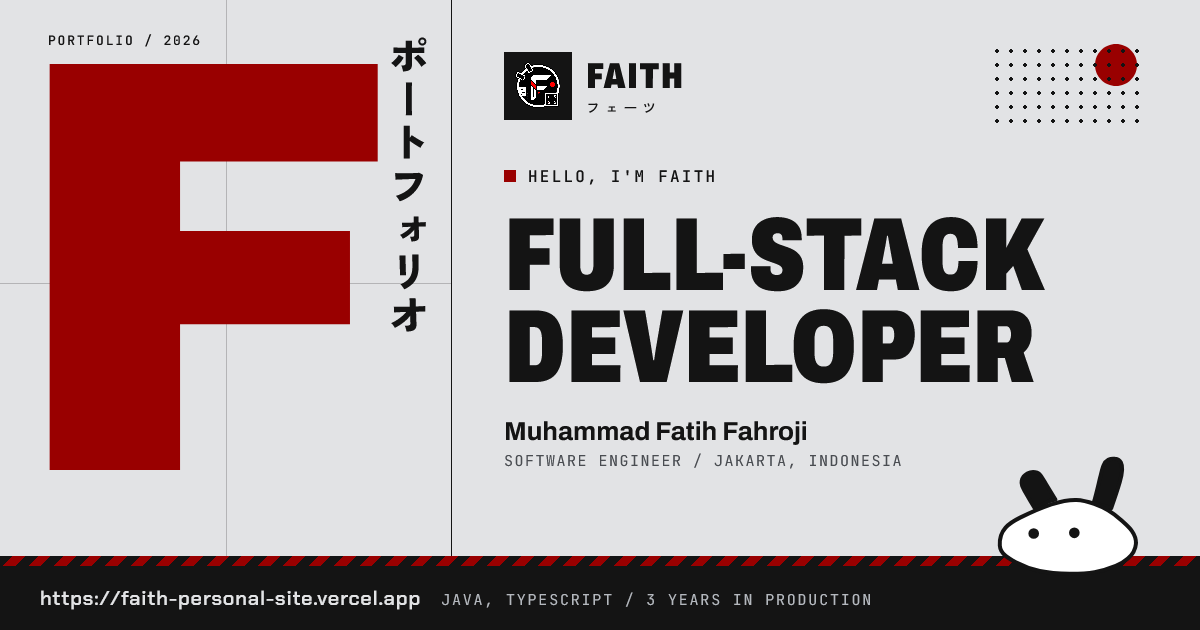
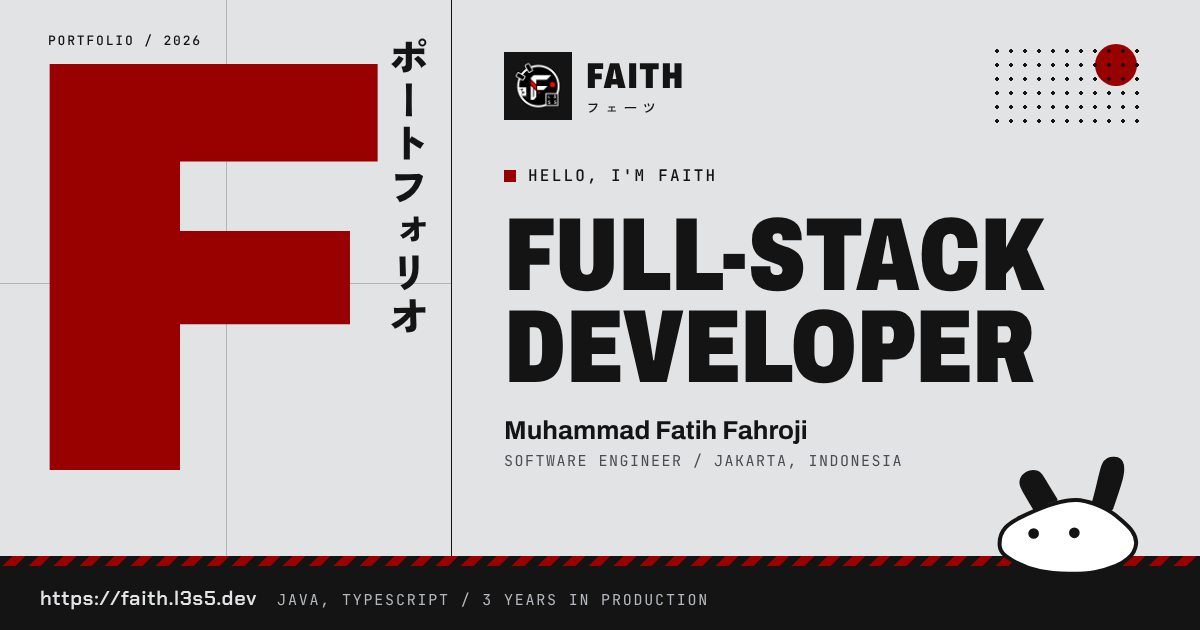
feat(seo): move to faith.l3s5.dev and help search engines find me
Point metadataBase, og:url, and the share images at faith.l3s5.dev, and
mark the home page canonical. Put my full name in the title and the meta
description, add robots.txt and sitemap.xml, and describe me with a
schema.org Person record linked to LinkedIn, GitHub, and YouTube. The
public email is now hello@fatihfahroji.com.

The headline gag draws its letters with CSS from data attributes, so the
typo still paints first but no reader of the page text sees STUCK.

diff --git a/test/features/home/HeroHeadline/HeroHeadline.test.tsx b/test/features/home/HeroHeadline/HeroHeadline.test.tsx
@@ -5,7 +5,8 @@ import { HeroHeadline } from "@/features/home/HeroHeadline/HeroHeadline";
 import { headlineGagAttribute } from "@/lib/motion/headlineGag";
 
 function gagText(container: HTMLElement) {
-  return container.querySelector("[aria-hidden='true']")?.textContent;
+  const layer = container.querySelector("[aria-hidden='true']");
+  return [...(layer?.querySelectorAll("[data-text]") ?? [])].map((glyphs) => glyphs.getAttribute("data-text")).join("");
 }
 
 describe("HeroHeadline", () => {
@@ -21,6 +22,13 @@ describe("HeroHeadline", () => {
   it("keeps the real headline as the accessible heading", () => {
     render(<HeroHeadline className="title" />);
     expect(screen.getByRole("heading", { level: 1, name: "FULL-STACK DEVELOPER" })).toBeTruthy();
+  });
+
+  it("keeps the gag letters out of the page text so crawlers never read STUCK", () => {
+    document.documentElement.setAttribute(headlineGagAttribute, "");
+    const { container } = render(<HeroHeadline className="title" />);
+    expect(container.querySelector("[aria-hidden='true']")?.textContent).toBe("");
+    expect(container.textContent).not.toContain("STUCK");
   });
 
   it("corrects FULL-STUCK to FULL-STACK on the armed load, then hands back to the real text", () => {

diff --git a/test/app/page.test.tsx b/test/app/page.test.tsx
@@ -1,6 +1,7 @@
 import { render, screen } from "@testing-library/react";
 import { describe, expect, it } from "vitest";
-import HomePage from "@/app/page";
+import HomePage, { metadata } from "@/app/page";
+import { fullName, links, siteUrl } from "@/content/site";
 
 describe("HomePage", () => {
   it("renders one h1 and every section inside main", () => {
@@ -12,5 +13,20 @@ describe("HomePage", () => {
     for (const sectionId of ["about", "work", "experience", "stack", "contact"]) {
       expect(main.querySelector(`#${sectionId}`)).not.toBeNull();
     }
+  });
+
+  it("describes Faith to search engines as a Person", () => {
+    const { container } = render(<HomePage />);
+
+    const script = container.querySelector("script[type='application/ld+json']");
+    const person = JSON.parse(script?.innerHTML ?? "{}");
+    expect(person["@type"]).toBe("Person");
+    expect(person.name).toBe(fullName);
+    expect(person.url).toBe(siteUrl);
+    expect(person.sameAs).toContain(links.gitHub);
+  });
+
+  it("names the home page as the canonical address", () => {
+    expect(metadata.alternates?.canonical).toBe("/");
   });
 });

diff --git a/src/app/layout.tsx b/src/app/layout.tsx
@@ -1,6 +1,6 @@
 import type { Metadata, Viewport } from "next";
 import { BrushCircleSprite } from "@/components/ui/BrushCircle/BrushCircle";
-import { heroParagraph, isHeadlineGagEnabled, siteTitle, siteUrl } from "@/content/site";
+import { isHeadlineGagEnabled, siteDescription, siteTitle, siteUrl } from "@/content/site";
 import { headlineGagScript } from "@/lib/motion/headlineGag";
 import { PaperArea } from "@/components/layout/PaperArea/PaperArea";
 import { SiteFooter } from "@/components/layout/SiteFooter/SiteFooter";
@@ -11,10 +11,10 @@ import "@/styles/globals.css";
 export const metadata: Metadata = {
   metadataBase: new URL(siteUrl),
   title: siteTitle,
-  description: heroParagraph,
+  description: siteDescription,
   openGraph: {
     title: siteTitle,
-    description: heroParagraph,
+    description: siteDescription,
     url: "/",
     siteName: siteTitle,
     type: "website",
@@ -22,7 +22,7 @@ export const metadata: Metadata = {
   twitter: {
     card: "summary_large_image",
     title: siteTitle,
-    description: heroParagraph,
+    description: siteDescription,
   },
 };
 

diff --git a/src/app/page.tsx b/src/app/page.tsx
@@ -1,3 +1,4 @@
+import type { Metadata } from "next";
 import { HeaderWithRuler } from "@/components/layout/HeaderWithRuler/HeaderWithRuler";
 import { About } from "@/features/home/About/About";
 import { Contact } from "@/features/home/Contact/Contact";
@@ -6,11 +7,20 @@ import { Hero } from "@/features/home/Hero/Hero";
 import { SpecStrip } from "@/features/home/SpecStrip/SpecStrip";
 import { Stack } from "@/features/home/Stack/Stack";
 import { Work } from "@/features/home/Work/Work";
+import { personStructuredData } from "@/lib/personStructuredData";
 import styles from "./styles/HomePage.module.css";
+
+export const metadata: Metadata = {
+  alternates: { canonical: "/" },
+};
 
 export default function HomePage() {
   return (
     <>
+      <script
+        type="application/ld+json"
+        dangerouslySetInnerHTML={{ __html: JSON.stringify(personStructuredData()).replace(/</g, "\\u003c") }}
+      />
       <HeaderWithRuler variant="home" />
       <main id="main" tabIndex={-1} className={styles.main} data-wave-motion="">
         <Hero />

diff --git a/src/content/site.ts b/src/content/site.ts
@@ -1,6 +1,9 @@
-export const siteUrl = "https://faith-personal-site.vercel.app";
+export const siteUrl = "https://faith.l3s5.dev";
 
-export const siteTitle = "Faith, full-stack developer";
+export const siteTitle = "Muhammad Fatih Fahroji (Faith), full-stack developer";
+
+export const siteDescription =
+  "Muhammad Fatih Fahroji (Faith) builds onboarding and video call systems for banking, end to end: Spring Boot and NestJS services, Next.js with Chakra UI on the front";
 
 export type WideScreenWave = "drawn" | "pattern";
 
@@ -13,7 +16,7 @@ export const heroParagraph =
 
 export const fullName = "Muhammad Fatih Fahroji";
 
-export const email = "fatihfahroji10@gmail.com";
+export const email = "hello@fatihfahroji.com";
 
 export const links = {
   coordinates: "https://maps.app.goo.gl/4XjYbE11Ut6FL3DL9",

diff --git a/src/features/home/HeroHeadline/HeroHeadline.tsx b/src/features/home/HeroHeadline/HeroHeadline.tsx
@@ -36,13 +36,13 @@ export function HeroHeadline({ className }: { className: string }) {
       {isHeadlineGagEnabled && (
         <span aria-hidden="true" className={styles.gagLayer}>
           <span key={gagStage} className={styles.line}>
-            {beforeCursor}
+            <span className={styles.glyphs} data-text={beforeCursor} />
             {isCursorVisible && (
               <span className={gagStage === "corrected" ? `${styles.cursor} ${styles.blinking}` : styles.cursor} />
             )}
-            {afterCursor}
+            <span className={styles.glyphs} data-text={afterCursor} />
           </span>
-          <span className={styles.line}>DEVELOPER</span>
+          <span className={`${styles.line} ${styles.glyphs}`} data-text="DEVELOPER" />
         </span>
       )}
     </h1>

diff --git a/test/app/sitemap.test.ts b/test/app/sitemap.test.ts
@@ -1,0 +1,25 @@
+import { afterEach, describe, expect, it, vi } from "vitest";
+import sitemap from "@/app/sitemap";
+
+describe("sitemap", () => {
+  afterEach(() => {
+    vi.unstubAllEnvs();
+  });
+
+  it("lists the home page, dated by the build", () => {
+    vi.stubEnv("NEXT_PUBLIC_BUILT_AT", "2026-10-14T03:00:00.000Z");
+    expect(sitemap()).toEqual([
+      {
+        url: "https://faith.l3s5.dev",
+        lastModified: "2026-10-14T03:00:00.000Z",
+        changeFrequency: "monthly",
+        priority: 1,
+      },
+    ]);
+  });
+
+  it("leaves out the date when the build time is unknown", () => {
+    vi.stubEnv("NEXT_PUBLIC_BUILT_AT", "");
+    expect(sitemap()[0]).not.toHaveProperty("lastModified");
+  });
+});

diff --git a/test/lib/personStructuredData.test.ts b/test/lib/personStructuredData.test.ts
@@ -1,0 +1,20 @@
+import { describe, expect, it } from "vitest";
+import { email, fullName, links, siteUrl } from "@/content/site";
+import { personStructuredData } from "@/lib/personStructuredData";
+
+describe("personStructuredData", () => {
+  it("builds Faith's Person record from the site content", () => {
+    const person = personStructuredData();
+
+    expect(person).toMatchObject({
+      "@context": "https://schema.org",
+      "@type": "Person",
+      name: fullName,
+      alternateName: ["Faith", "FaithL3S5"],
+      url: siteUrl,
+      email,
+      image: `${siteUrl}/opengraph-image.png`,
+    });
+    expect(person.sameAs).toEqual([links.linkedIn, links.gitHub, links.gamingChannel]);
+  });
+});

diff --git a/src/lib/personStructuredData.ts b/src/lib/personStructuredData.ts
@@ -1,0 +1,16 @@
+import { email, fullName, links, siteUrl } from "@/content/site";
+
+export function personStructuredData() {
+  return {
+    "@context": "https://schema.org",
+    "@type": "Person",
+    name: fullName,
+    alternateName: ["Faith", "FaithL3S5"],
+    url: siteUrl,
+    email,
+    image: `${siteUrl}/opengraph-image.png`,
+    jobTitle: "Full-stack developer",
+    address: { "@type": "PostalAddress", addressLocality: "Jakarta", addressCountry: "ID" },
+    sameAs: [links.linkedIn, links.gitHub, links.gamingChannel],
+  };
+}

diff --git a/src/app/sitemap.ts b/src/app/sitemap.ts
@@ -1,0 +1,14 @@
+import type { MetadataRoute } from "next";
+import { siteUrl } from "@/content/site";
+
+export default function sitemap(): MetadataRoute.Sitemap {
+  const builtAt = process.env.NEXT_PUBLIC_BUILT_AT;
+  return [
+    {
+      url: siteUrl,
+      ...(builtAt && { lastModified: builtAt }),
+      changeFrequency: "monthly",
+      priority: 1,
+    },
+  ];
+}

diff --git a/test/app/robots.test.ts b/test/app/robots.test.ts
@@ -1,0 +1,11 @@
+import { describe, expect, it } from "vitest";
+import robots from "@/app/robots";
+
+describe("robots", () => {
+  it("lets every crawler in and points them to the sitemap", () => {
+    expect(robots()).toEqual({
+      rules: { userAgent: "*", allow: "/" },
+      sitemap: "https://faith.l3s5.dev/sitemap.xml",
+    });
+  });
+});

diff --git a/src/app/robots.ts b/src/app/robots.ts
@@ -1,0 +1,9 @@
+import type { MetadataRoute } from "next";
+import { siteUrl } from "@/content/site";
+
+export default function robots(): MetadataRoute.Robots {
+  return {
+    rules: { userAgent: "*", allow: "/" },
+    sitemap: `${siteUrl}/sitemap.xml`,
+  };
+}
